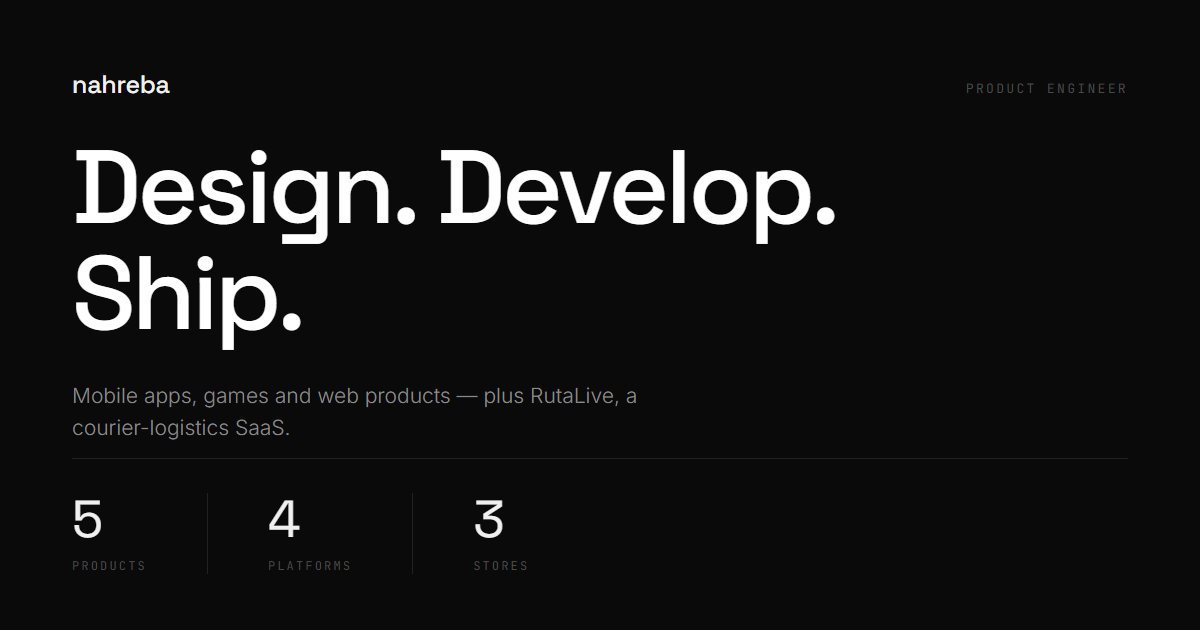
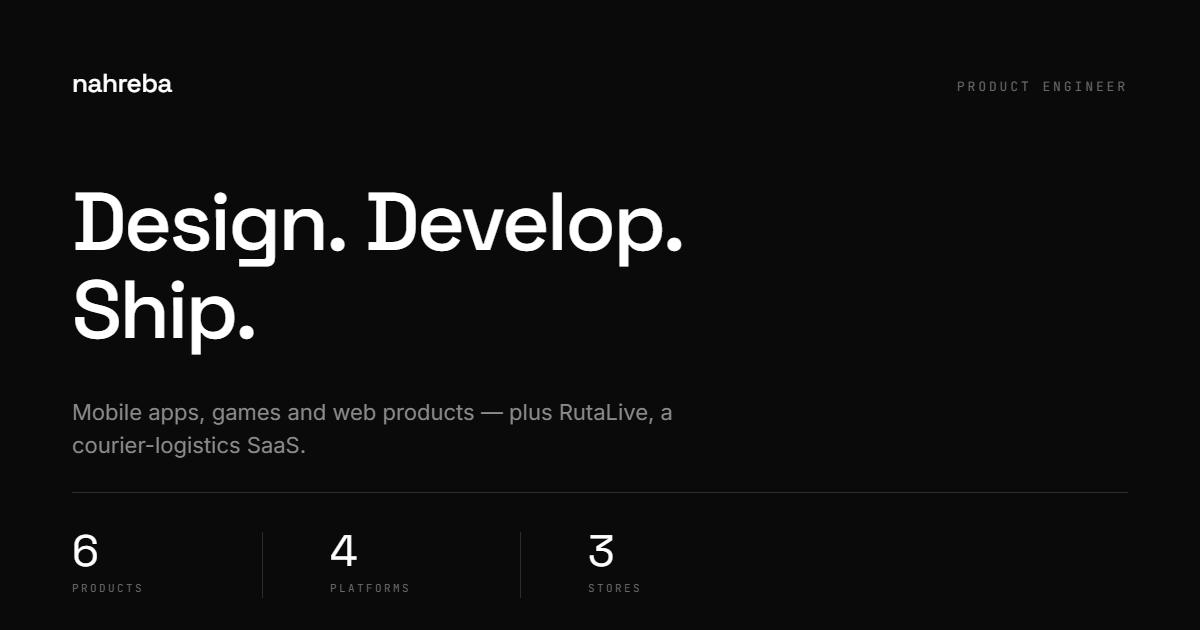
Social preview says six products, and can actually be re-fetched
The card was rebuilt down to five back when the site listed five;
Kora Wallet made it six and the image was never redrawn. It now reads
six, on the same layout and the same three faces.

The reason it looked stuck is the second half of this: every platform
that renders a link — Telegram, Facebook, LinkedIn, X — caches the
image by its URL and will not ask again for days, so replacing the file
alone changes nothing anyone sees. The three tags now point at
og-image.png?v=6, a URL none of them hold, which is what forces the
fetch.

diff --git a/index.html b/index.html
@@ -20,13 +20,13 @@
   <meta property="og:site_name" content="Nahreba">
   <meta property="og:title" content="Nahreba — Product Engineer">
   <meta property="og:description" content="Product engineer building and shipping mobile apps, games and web — plus RutaLive, a courier-logistics SaaS.">
-  <meta property="og:image" content="https://uz-or.com/og-image.png">
+  <meta property="og:image" content="https://uz-or.com/og-image.png?v=6">
   <meta property="og:image:width" content="1200">
   <meta property="og:image:height" content="630">
   <meta name="twitter:card" content="summary_large_image">
   <meta name="twitter:title" content="Nahreba — Product Engineer">
   <meta name="twitter:description" content="Product engineer building and shipping mobile apps, games and web — plus RutaLive, a courier-logistics SaaS.">
-  <meta name="twitter:image" content="https://uz-or.com/og-image.png">
+  <meta name="twitter:image" content="https://uz-or.com/og-image.png?v=6">
 
   <script>
     (function(){

diff --git a/rutalive-case-study.html b/rutalive-case-study.html
@@ -9,7 +9,7 @@
   <meta property="og:title" content="RutaLive — Engineering Case Study">
   <meta property="og:description" content="Multi-tenant courier SaaS across 4 platforms: the architecture and the decisions that mattered.">
   <meta property="og:url" content="https://uz-or.com/rutalive-case-study.html">
-  <meta property="og:image" content="https://uz-or.com/og-image.png">
+  <meta property="og:image" content="https://uz-or.com/og-image.png?v=6">
   <link rel="icon" href="favicon.svg" type="image/svg+xml">
   <link rel="icon" href="favicon-32.png" sizes="32x32" type="image/png">
   <link rel="apple-touch-icon" href="apple-touch-icon.png" sizes="180x180">
